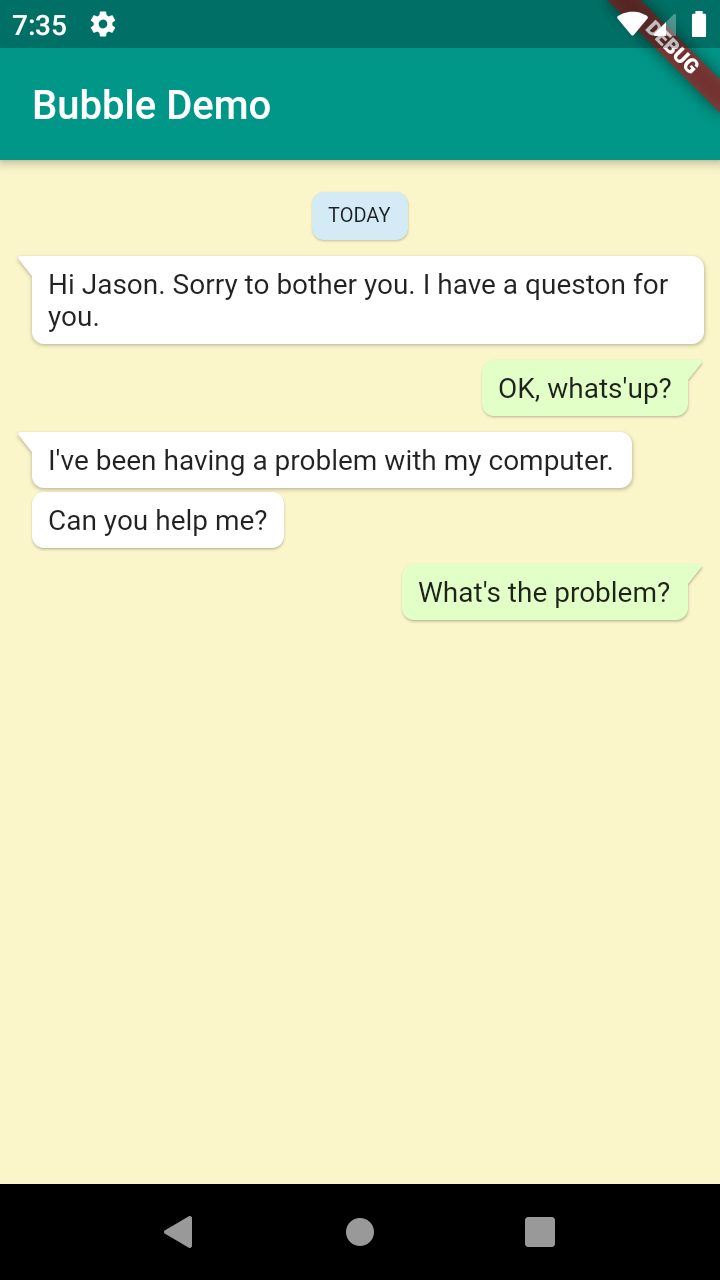
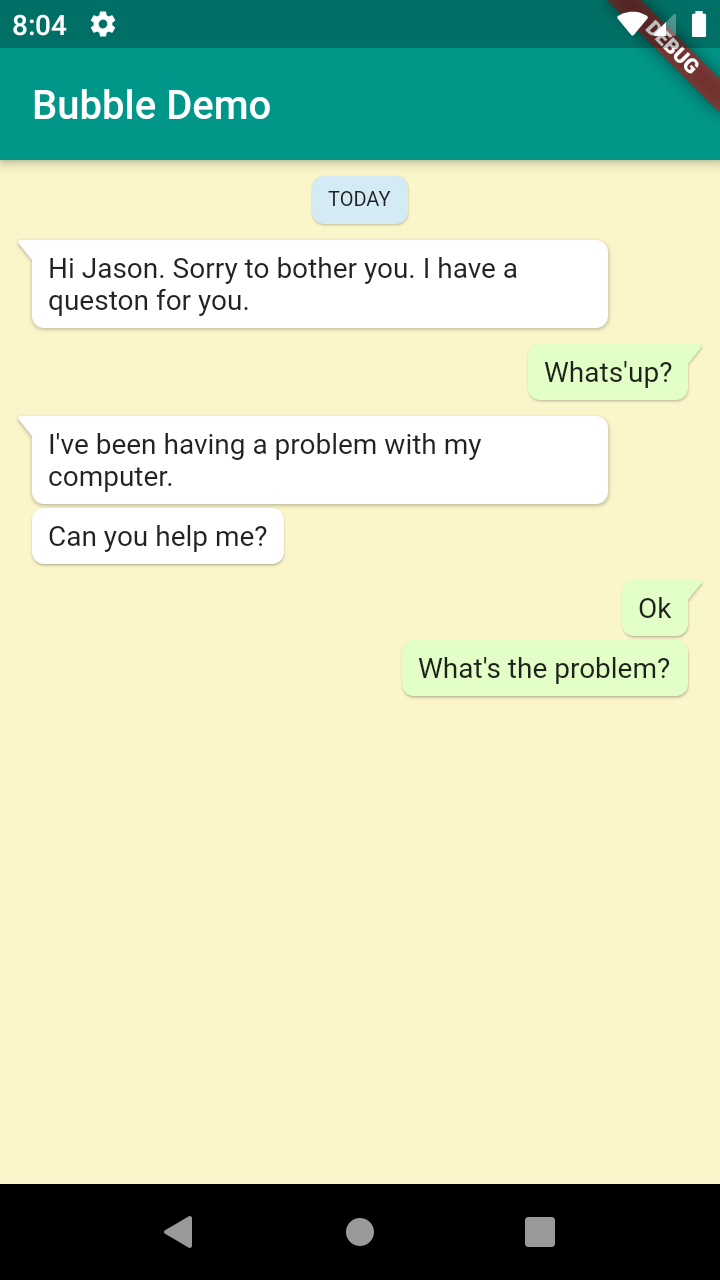
Changes in example

Changed region(s): [[0.0306, 0.125, 1.0, 0.4688], [0.55, 0.4375, 0.9778, 0.5625], [0.0, 0.0, 0.0917, 0.0312]]

diff --git a/example/lib/main.dart b/example/lib/main.dart
@@ -28,6 +28,10 @@ class _MyHomePageState extends State<MyHomePage> {
   static const Color COLOR_LEFT = Colors.white;
   static const Color COLOR_RIGHT = Color.fromARGB(255, 225, 255, 199);
   static const Color COLOR_CAPTION = Color.fromARGB(255, 212, 234, 244);
+  static const EdgeInsets MARGIN_LEFT = EdgeInsets.only(top: 8, right: 48);
+  static const EdgeInsets MARGIN_LEFT_NEXT = EdgeInsets.only(top: 2, right: 48);
+  static const EdgeInsets MARGIN_RIGHT = EdgeInsets.only(top: 8, left: 48);
+  static const EdgeInsets MARGIN_RIGHT_NEXT = EdgeInsets.only(top: 2, left: 48);
 
   @override
   Widget build(BuildContext context) {
@@ -36,7 +40,6 @@ class _MyHomePageState extends State<MyHomePage> {
         title: Text(MyApp.TITLE),
       ),
       body: Container(
-        width: double.infinity,
         color: Colors.yellow.withAlpha(64),
         child: ListView(
           padding: EdgeInsets.all(8),
@@ -55,6 +58,7 @@ class _MyHomePageState extends State<MyHomePage> {
                 nip: BubbleNip.TOP_LEFT,
                 color: COLOR_LEFT,
                 child: Text('Hi Jason. Sorry to bother you. I have a queston for you.'),
+                margin: MARGIN_LEFT,
               ),
             ),
             Container(
@@ -62,7 +66,8 @@ class _MyHomePageState extends State<MyHomePage> {
               child: Bubble(
                 nip: BubbleNip.TOP_RIGHT,
                 color: COLOR_RIGHT,
-                child: Text('OK, whats\'up?'),
+                child: Text('Whats\'up?'),
+                margin: MARGIN_RIGHT,
               ),
             ),
             Container(
@@ -71,6 +76,7 @@ class _MyHomePageState extends State<MyHomePage> {
                 nip: BubbleNip.TOP_LEFT,
                 color: COLOR_LEFT,
                 child: Text('I\'ve been having a problem with my computer.'),
+                margin: MARGIN_LEFT,
               ),
             ),
             Container(
@@ -78,9 +84,9 @@ class _MyHomePageState extends State<MyHomePage> {
               child: Bubble(
                 nip: BubbleNip.TOP_LEFT,
                 color: COLOR_LEFT,
-                margin: EdgeInsets.only(top: 2),
                 showNip: false,
                 child: Text('Can you help me?'),
+                margin: MARGIN_LEFT_NEXT,
               ),
             ),
             Container(
@@ -88,7 +94,18 @@ class _MyHomePageState extends State<MyHomePage> {
               child: Bubble(
                 nip: BubbleNip.TOP_RIGHT,
                 color: COLOR_RIGHT,
+                child: Text('Ok'),
+                margin: MARGIN_RIGHT,
+              ),
+            ),
+            Container(
+              alignment: Alignment.topRight,
+              child: Bubble(
+                nip: BubbleNip.TOP_RIGHT,
+                showNip: false,
+                color: COLOR_RIGHT,
                 child: Text('What\'s the problem?'),
+                margin: MARGIN_RIGHT_NEXT,
               ),
             ),
           ],

diff --git a/lib/bubble.dart b/lib/bubble.dart
@@ -207,7 +207,7 @@ class Bubble extends StatelessWidget {
     this.elevation = 1.0,
     this.shadowColor = Colors.black,
     this.padding = const EdgeInsets.symmetric(horizontal: 8.0, vertical: 6.0),
-    this.margin = const EdgeInsets.only(top: 8.0),
+    this.margin = EdgeInsets.zero,
   }) : bubbleClipper = BubbleClipper(
             radius: radius,
             nipWidth: nipWidth,

diff --git a/CHANGELOG.md b/CHANGELOG.md
@@ -1,3 +1,7 @@
+## [1.0.3] 2019-07-29.
+
+* Changes in example.
+
 ## [1.0.2] 2019-07-29.
 
 * BubbleSource source to BubbleNip nip.
